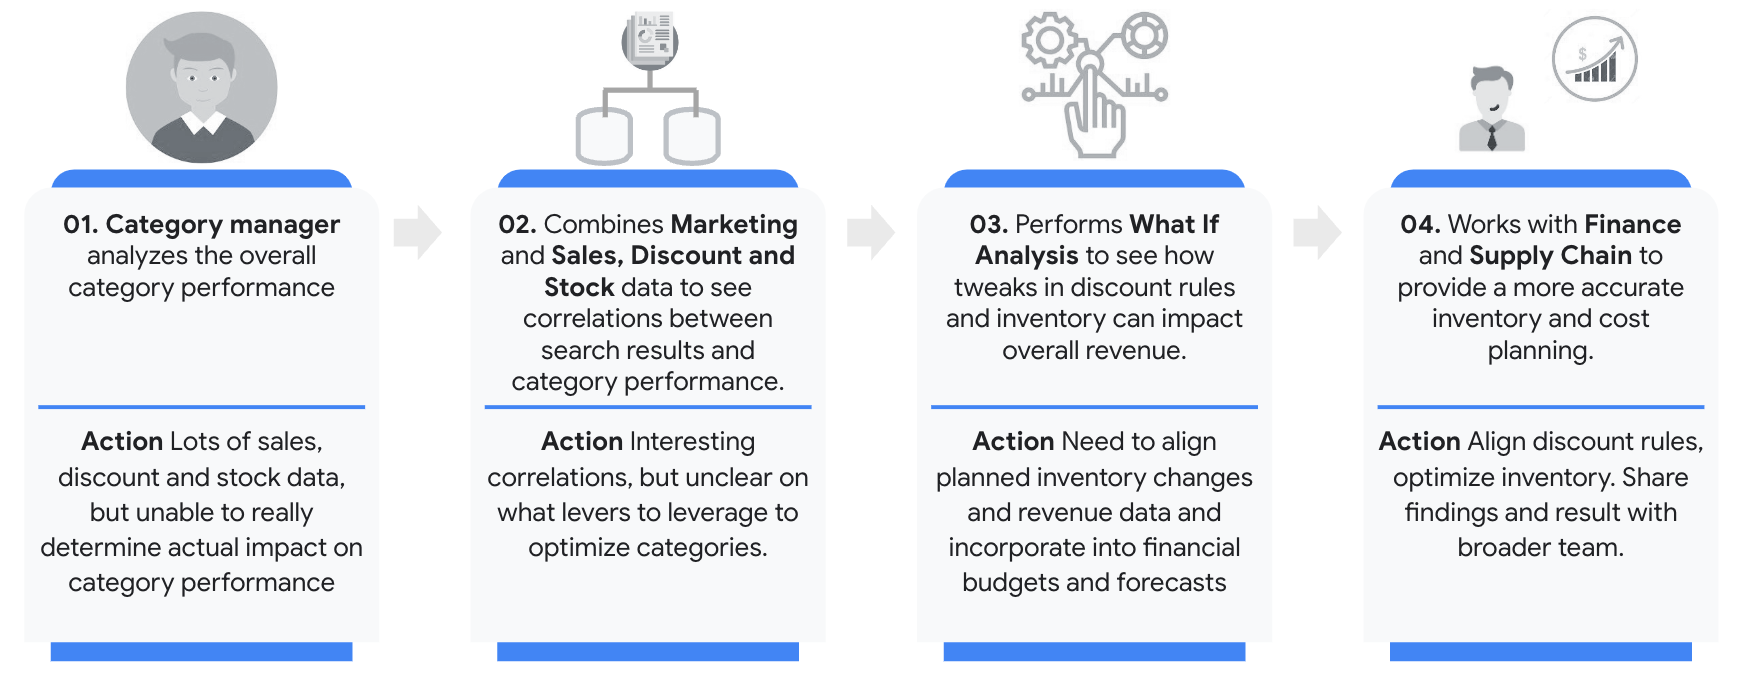
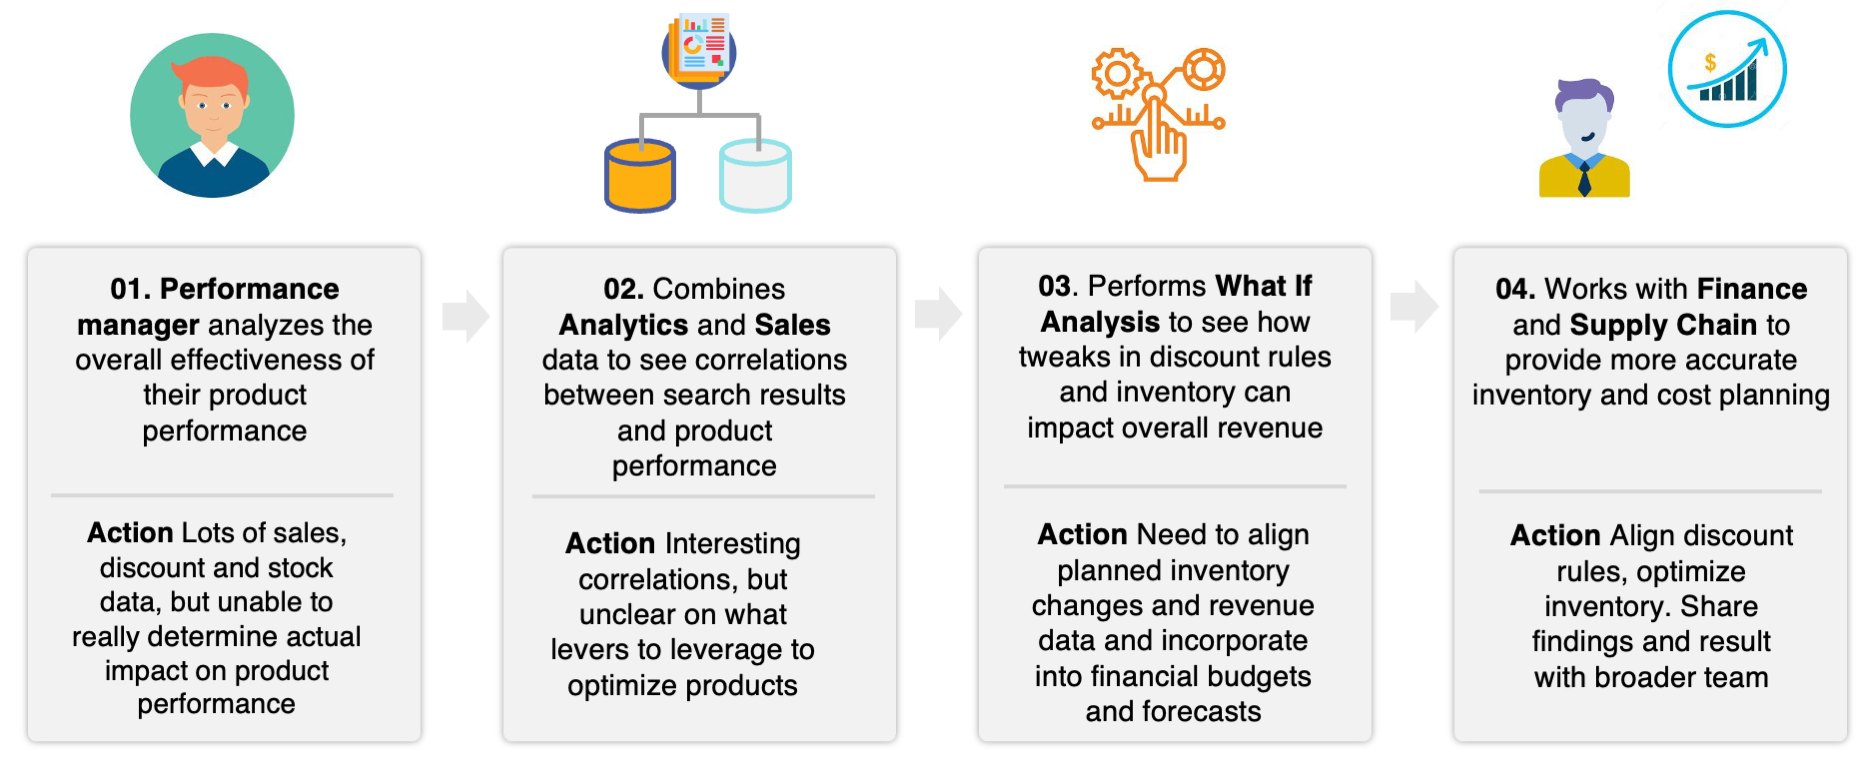
update

diff --git a/README.md b/README.md
@@ -1,21 +1,21 @@
-# Category Management with Google BigQuery and SAP Datasphere / SAP Analytics Cloud
+# Drive Profitable Growth with Google BigQuery, SAP Datasphere, and SAP Analytics Cloud
 
 ## Overview
 
-This usecase provides the ability to analyze category performance for digital/online sales by combining external source systems like Google Analytics and sales, discounts, and stock data from SAP systems. With a data federation architecture, it is possible to leave data in its source system and access it in one location without replication. With this architecture, customers can combine their BigQuery and SAP data to derive new insights.
+This use case provides the ability to analyze product performance for digital/online sales by combining external source systems like Google Analytics and sales, discounts, and stock data from SAP systems. With a data federation architecture, it is possible to leave data in its source system and access it in one location without replication. With this architecture, customers can combine their BigQuery and SAP data to derive new insights.
 
 ![Scenario](images/scenario.png)
 
 ## Challenges and Business Drivers
-Data on multiple scattered source systems (external and SAP) make analysis of category performance difficult. The inability and the high cost of bringing data sources together make root cause analysis of online sales a burdensome process.
+Data on multiple scattered source systems (external and SAP) make analysis of product performance difficult. The inability and the high cost of bringing data sources together make root cause analysis of online sales a burdensome process.
 
 ## Outcome
 
-Unified data federation architecture allows customers to combine external data sources (Google Analytics and Google BigQuery) with SAP data sources for live category analysis without business data replication and with state-of-the-art performance in one central location.
+Unified data federation architecture allows customers to combine external data sources (Google Analytics and Google BigQuery) with SAP data sources for live analysis without business data replication and with state-of-the-art performance in one central location.
 
 
 ## Solution Overview
-After configuring the Google BigQuery and SAP Datasphere connection, customers can create data models combining external and SAP data to unlock new insights. Through SAP Analytics Cloud (SAC) customers can do live on the fly analysis across multiple data sources in real-time.
+After configuring the Google BigQuery and SAP Datasphere connection, customers can create data models combining external and SAP data to unlock new insights. Through SAP Analytics Cloud (SAC) customers can do on-the-fly analysis across multiple data sources in real-time.
 
 
 ![Highlevel Architecture](images/solutiondiagram.jpg)
@@ -23,15 +23,15 @@ After configuring the Google BigQuery and SAP Datasphere connection, customers c
 
 ## Story
 
-In today's competitive online marketplace, understanding customer behavior and optimizing sales strategy is crucial for success. Category managers need to analyze product performance and uncover hidden insights to drive revenue growth. By combining data from external sources like Google Analytics with sales, discounts, and stock data from SAP systems, we can create a holistic and real-time view of category performance. 
+In today's competitive online marketplace, understanding customer behavior and optimizing sales strategy is crucial for success. Managers need to analyze product performance and uncover hidden insights to drive revenue growth. By combining data from external sources like Google Analytics with sales, discounts, and stock data from SAP systems, we can create a holistic and real-time view of product performance. 
 
-**Category Manager:** Let's imagine that we want to analyze our digital sales performance for a specific product category and understand how it is impacted by factors such as discounts, stock availability, and competition. We need to combine data from Google Analytics and our SAP systems to get a holistic view of the situation.
+**Manager:** Let's imagine that we want to analyze our digital sales performance for a specific product and understand how it is impacted by factors such as discounts, stock availability, and competition. We need to combine data from Google Analytics and our SAP systems to get a holistic view of the situation.
 
-SAP Datasphere uses a data federation approach that allows us to access data from multiple sources in one central location, without the need for replication. This means that we can combine our Google BigQuery and SAP data sources for live category analysis with state-of-the-art performance.
+SAP Datasphere uses a data federation approach that allows us to access data from multiple sources in one central location, without the need for replication. This means that we can combine our Google BigQuery and SAP data sources for live performance analysis with state-of-the-art performance.
 
 1. To begin, we need to configure the connection between Google BigQuery and SAP Datasphere. This will enable us to create data models that combine external and SAP data to unlock new insights.
 2. Once the connection is established and data is harmonized, we can use SAP analytics Cloud to perform live, on-the-fly analysis across multiple data sources in real-time. This will allow us to understand the root cause of the customer journey and optimize our online sales strategy accordingly.
-3. With a holistic and real-time view of category performance I can uncover hidden insights and potential revenue growth for certain product categories by understanding the behavior over time and correlations with other competitive products. In a single view I can see the performance of my product categories via smart insights that use the power of machine learning to help explain trends and patterns in the data.
+3. With a holistic and real-time view of product performance I can uncover hidden insights and potential revenue growth for certain products by understanding the behavior over time and correlations with other competitive products. In a single view I can see the performance of my product via smart insights that use the power of machine learning to help explain trends and patterns in the data.
 
 
 
